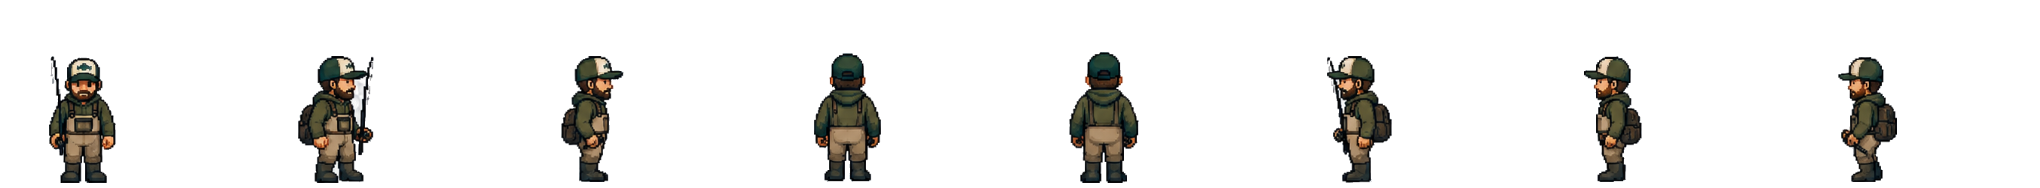
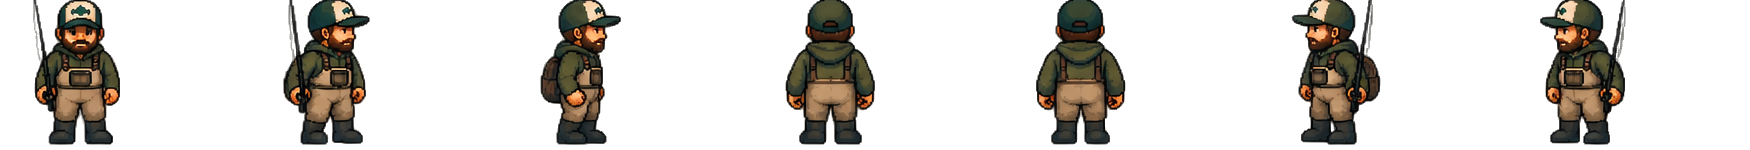
Swap in the fixed angler sprite sheet
Re-slices the angler from the revised sheet, which has cleaner poses
(the cast line and lure, the celebrate fish) but a harder background:
a dark, blurred gradient the olive jacket nearly matches in tone, so
colour keying was out. The background is separated by sharpness
instead — a flood fill from the edges that only crosses pixels with
low local contrast, which the blurred backdrop has everywhere and the
pixel art's hard outlines never do. Rows are split at the sparsest row
when a strip's rods bridge into the row above (fish-on reaches into
reel).

Frames are now 250x150 at full scale with the feet lower in the box;
the manifest, per-pose rod tips, and the on-stage sprite size are
re-measured so the figure stays the same size on the dock. Idle has
seven frames on this sheet.

Claude-Session: https://claude.ai/code/session_01QxGGSNxmGxCCVTvUohPcBA

diff --git a/src/utils/anglerSprites.js b/src/utils/anglerSprites.js
@@ -1,21 +1,21 @@
-// The main character's sprite strips, sliced from the angler sheet at 75% scale. Every frame
-// sits in the same box with the feet anchored at (feetX, feetY) so actions can swap without
-// the figure hopping. Frame counts are what the sheet actually has (the reel row is seven).
+// The main character's sprite strips, sliced from the angler sheet. Every frame sits in the
+// same box with the feet anchored at (feetX, feetY) so actions can swap without the figure
+// hopping. Frame counts are what the sheet actually has (idle and reel are seven).
 import idle from '../assets/angler/idle.png';
 import cast from '../assets/angler/cast.png';
 import reel from '../assets/angler/reel.png';
 import fishon from '../assets/angler/fishon.png';
 import celebrate from '../assets/angler/celebrate.png';
 
-export const SPRITE_FRAME = { w: 255, h: 188, feetX: 82, feetY: 182 };
+export const SPRITE_FRAME = { w: 250, h: 150, feetX: 80, feetY: 144 };
 
 // rodTip is where the line leaves the rod for that strip's held pose, in frame pixels.
 export const ANGLER_SPRITES = {
-  idle: { src: idle, frames: 8, rodTip: { x: 96, y: 30 } },
-  cast: { src: cast, frames: 6, rodTip: { x: 248, y: 64 } },
-  reel: { src: reel, frames: 7, rodTip: { x: 168, y: 56 } },
-  fishon: { src: fishon, frames: 6, rodTip: { x: 210, y: 42 } },
-  celebrate: { src: celebrate, frames: 8, rodTip: { x: 96, y: 30 } },
+  idle: { src: idle, frames: 7, rodTip: { x: 80, y: 20 } },
+  cast: { src: cast, frames: 6, rodTip: { x: 228, y: 34 } },
+  reel: { src: reel, frames: 7, rodTip: { x: 176, y: 14 } },
+  fishon: { src: fishon, frames: 6, rodTip: { x: 195, y: 10 } },
+  celebrate: { src: celebrate, frames: 8, rodTip: { x: 80, y: 20 } },
 };
 
 // What the angler is doing in each phase: which strip, how many frames to step through, and

diff --git a/src/components/game/GameScene.js b/src/components/game/GameScene.js
@@ -18,7 +18,7 @@ const VIEW_H = 270;
 
 // Where things sit in the painted scenes (viewBox units): the dock deck the angler stands on,
 // the water surface the bobber floats at, and how far out the cast lands.
-const ART_LAYOUT = { anglerX: 96, anglerY: 130, waterY: 142, bobberX: 300, spriteBoxH: 54 };
+const ART_LAYOUT = { anglerX: 96, anglerY: 130, waterY: 142, bobberX: 300, spriteBoxH: 44 };
 
 const SCENES = {
   lake: { art: lakeArt },
@@ -135,7 +135,7 @@ export default function GameScene({ biome, phase, displayName, species, reel, zo
       anglerY: (scene.stand === 'boat' ? 120 : 120) * FALLBACK_SCALE,
       waterY: FALLBACK_WATER_TOP * FALLBACK_SCALE,
       bobberX: 300,
-      spriteBoxH: 60,
+      spriteBoxH: 48,
     };
   const current = anglerAction({ phase, result, holding });
   const rodTip = ANGLER_SPRITES[current.action].rodTip;
